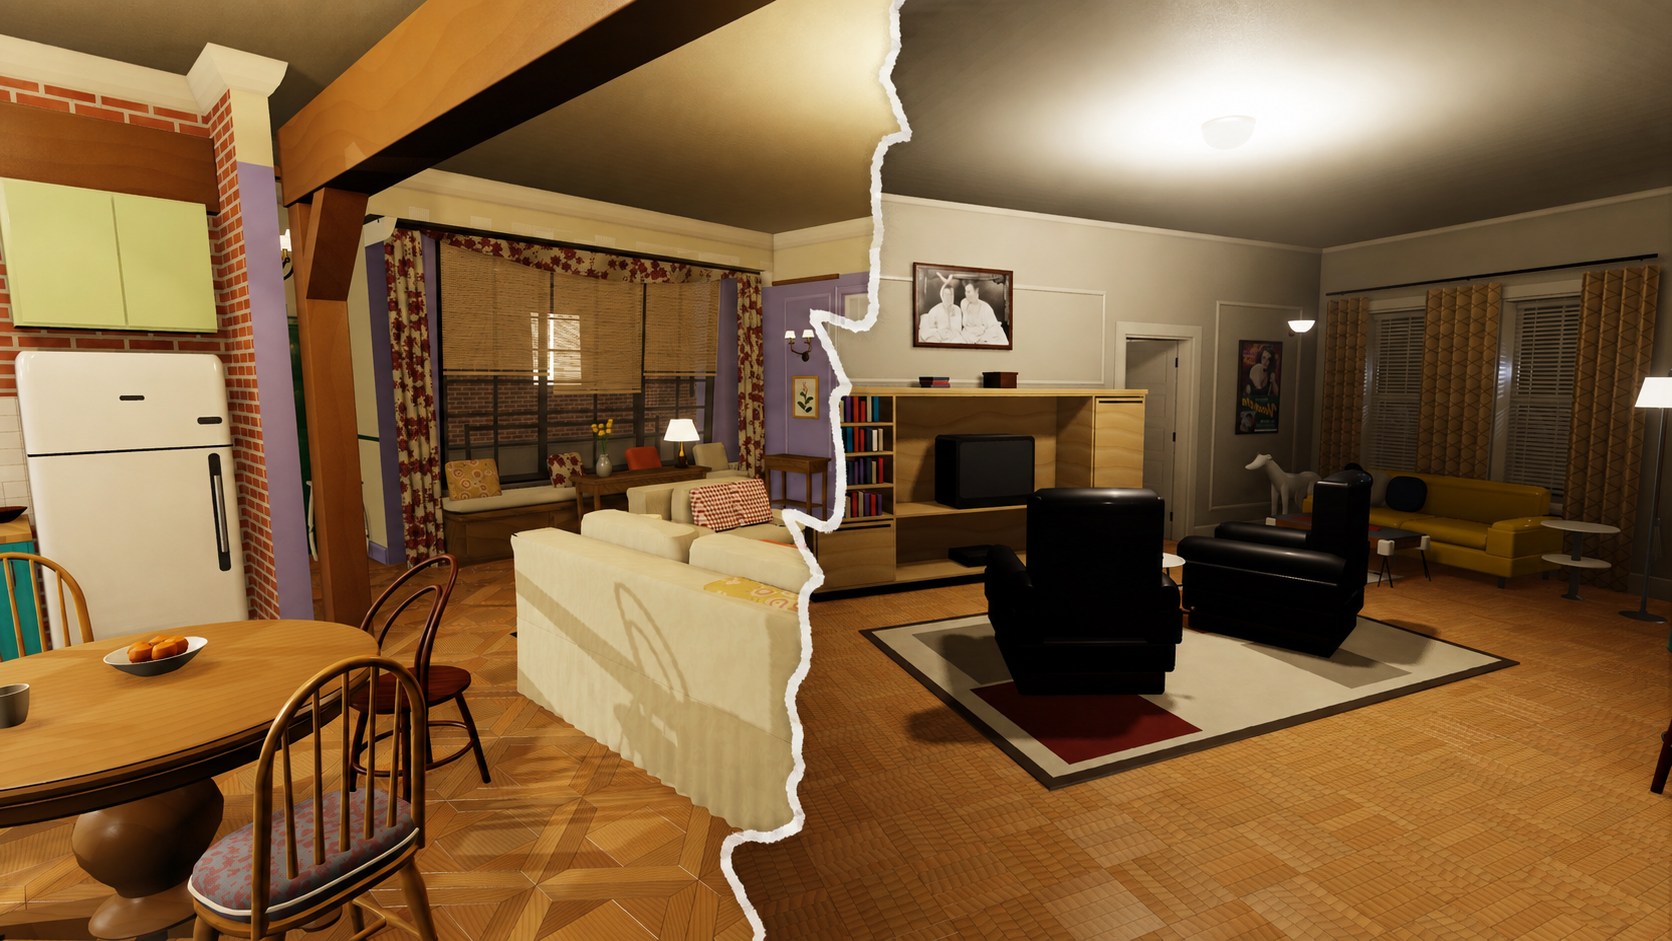
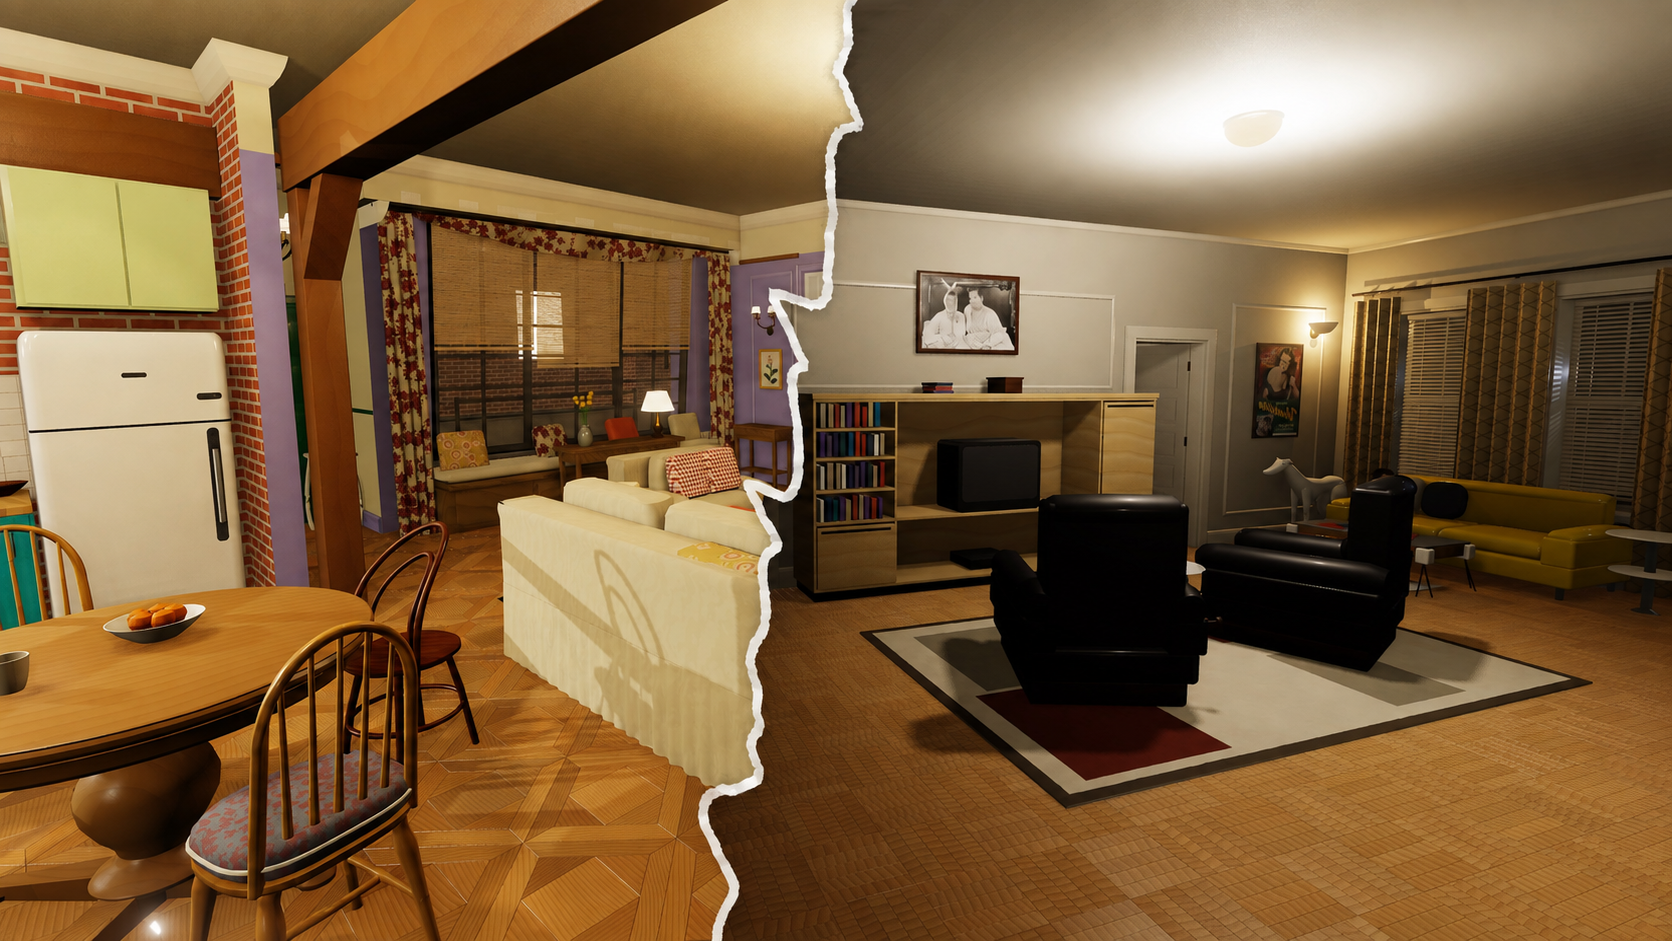
fix bugs in apt 19

diff --git a/src/apartments/joey/lighting.ts b/src/apartments/joey/lighting.ts
@@ -3,6 +3,7 @@ import type * as THREE from 'three/webgpu'
 import { MeshData } from '../../lib/mesh'
 import * as mlib from '../../lib/mlib'
 import { srgbTriple } from '../../mats/tsl'
+import { blackbody } from '../../scene/props'
 import type { World } from '../../scene/world'
 import * as L from './layout'
 import * as M from './materials'
@@ -10,15 +11,20 @@ import * as P from './props'
 
 const GAIN=0.185
 const WARM=srgbTriple('FFEBD2')
-const WARM_HOT=srgbTriple('FFE8CC')
+// User-tuned: every fixture emissive (and the sconce lamp) shares one warmth.
+export const GLOW_K=3000
+const invSrgb=(u:number):number=>u<=0.0031308?u*12.92:1.055*u**(1/2.4)-0.055
+export const bbHex=(kelvin:number):string=>blackbody(kelvin).map((c)=>Math.round(invSrgb(c)*255).toString(16).padStart(2,'0')).join('')
 const watts=(value:number):number=>value/GAIN
 const add=(world:World,md:MeshData,material:THREE.Material):MeshData=>world.add(md,material)
 
 function buildMaterials():void {
-  M.emissive('M_BulbGlow','FFE8CC',{strength:6})
-  M.emissive('M_DomeGlow','FFEBD2',{strength:2.4})
-  M.emissive('M_StripGlow','FFE8CC',{strength:3.4})
-  M.emissive('M_OpalGlow','FFE8CC',{strength:2.4,rough:0.42,base:'F0EADA'})
+  const glow=bbHex(GLOW_K)
+  M.emissive('M_BulbGlow',glow,{strength:6})
+  M.emissive('M_DomeGlow',glow,{strength:2.4})
+  M.emissive('M_StripGlow',glow,{strength:3.4})
+  M.emissive('M_OpalGlow',glow,{strength:2.4,rough:0.42,base:'F0EADA'})
+  M.plastic('M_Opal','F0EADA',{rough:0.42,coat:0.2})
   M.metal('M_FixBrass','A8842E',{rough:0.3,grime:0.35})
   M.metal('M_FixChrome','D6DADE',{rough:0.1,grime:0.3})
 }
@@ -39,21 +45,26 @@ function lampBulb(world:World,loc:[number,number,number]):void {
 }
 
 function sconce(world:World):void {
-  const parts:MeshData[]=[]
-  const plate=P.lathe([[0,0],[0.062,0],[0.06,0.012],[0.026,0.02],[0.024,0.07],[0,0.072]],20);P.faceY(plate,1);parts.push(plate)
-  const bowl=P.lathe([[0,0],[0.052,0.006],[0.098,0.042],[0.132,0.106],[0.134,0.112],[0.096,0.048],[0.05,0.014],[0,0.008]],28);mlib.translate(bowl,[0,0.104,-0.016]);parts.push(bowl)
-  const lamp=P.lathe([[0,0],[0.021,0.008],[0.024,0.03],[0.018,0.05],[0,0.056]],14);mlib.translate(lamp,[0,0.104,0.03]);parts.push(lamp)
-  P.wallPlace(parts,'W',6.86,2.24,L.WX)
-  add(world,plate,M.get('M_FixBrass'));add(world,bowl,M.get('M_OpalGlow'));add(world,lamp,M.get('M_BulbGlow'))
+  const plate=P.lathe([[0,0],[0.062,0],[0.06,0.012],[0.026,0.02],[0.024,0.07],[0,0.072]],20);P.faceY(plate,1)
+  const bowl=P.lathe([[0,0],[0.052,0.006],[0.098,0.042],[0.132,0.106],[0.134,0.112],[0.096,0.048],[0.05,0.014],[0,0.008]],28);mlib.translate(bowl,[0,0.104,-0.016])
+  const bulb=P.lathe([[0,0],[0.021,0.008],[0.024,0.03],[0.018,0.05],[0,0.056]],14);mlib.translate(bulb,[0,0.104,0.03])
+  P.wallPlace([plate,bowl,bulb],'W',6.86,2.24,L.WX)
+  // f_light.py diffuser(): the opal bowl must not screen its own lamp.
+  M.get('M_Opal').userData.noShadow=true;M.get('M_BulbGlow').userData.noShadow=true
+  add(world,plate,M.get('M_FixBrass'));add(world,bowl,M.get('M_Opal'));add(world,bulb,M.get('M_BulbGlow'))
+  // The POINT lamp sits at the placed bulb's vertex centroid, as in f_light.py.
+  let cx=0,cy=0,cz=0
+  for(const v of bulb.verts){cx+=v[0];cy+=v[1];cz+=v[2]}
+  const n=bulb.verts.length
+  // User-tuned from f_light.py's 210 W @ WARM (~2900 K): +30% power, GLOW_K warmth.
+  world.pointLight([cx/n,cy/n,cz/n],273*GAIN,blackbody(GLOW_K),0.05,{distance:5.4})
 }
 
 function kitchenStrips(world:World):void {
   const x0=L.K_UPPER[0]+0.03,x1=L.K_UPPER[1]-0.03,y=L.NY2-L.UPPER_D+0.1,z=L.UPPER_Z[0]-0.02
   const tube=P.rod([x0,y,z],[x1,y,z],0.013,10);M.get('M_StripGlow').userData.noShadow=true;add(world,tube,M.get('M_StripGlow'))
-  for(let i=0;i<4;i++)world.pointLight([x0+(x1-x0)*(i+0.5)/4,y,z-0.03],105*GAIN/4,WARM_HOT,0.04,{shadow:false,distance:2.2})
   const [mx0,mx1]=L.K_MW
   for(const t of [0.3,0.7])add(world,mlib.bevel(mlib.box(mx0+(mx1-mx0)*t-0.055,L.NY2-0.245,L.K_MW_Z[0]-0.006,mx0+(mx1-mx0)*t+0.055,L.NY2-0.135,L.K_MW_Z[0]),0.003,2),M.get('M_StripGlow'))
-  world.pointLight([(mx0+mx1)*0.5,L.NY2-0.19,L.K_MW_Z[0]-0.02],78*GAIN,WARM_HOT,0.06,{shadow:false,distance:2.2})
 }
 
 function vanity(world:World):void {

diff --git a/src/apartments/joey/living.ts b/src/apartments/joey/living.ts
@@ -5,6 +5,7 @@ import * as mlib from '../../lib/mlib'
 import { PyRandom } from '../../lib/rng'
 import type { World } from '../../scene/world'
 import * as L from './layout'
+import { bbHex, GLOW_K } from './lighting'
 import * as M from './materials'
 import * as P from './props'
 
@@ -40,7 +41,7 @@ function buildMaterials(): void {
   M.carpet('M_MatWhite', 'E4E0D6', { rough: 0.94 })
   M.carpet('M_MatRed', 'AE2B26', { rough: 0.94 })
   M.paint('M_LampShade', 'E6E2D6', { rough: 0.55 })
-  M.emissive('M_FloorShadeGlow', 'FFE8CC', { strength: 1.6, rough: 0.55, base: 'E6E2D6' })
+  M.emissive('M_FloorShadeGlow', bbHex(GLOW_K), { strength: 1.6, rough: 0.55, base: 'E6E2D6' })
   M.picture('M_ArtLaurel', '/Laurel_and_Hardy_poster.jpeg', { rough: 0.4, gloss: 0.28 })
   M.picture('M_ArtVendetta', '/Vendetta_poster.jpg', { rough: 0.36, gloss: 0.34 })
   M.picture('M_ArtDieHard', '/die_hard.jpeg', { rough: 0.38, gloss: 0.3 })
@@ -228,7 +229,9 @@ function addArt(world: World, width:number,height:number,wall:'W'|'E',u:number,z
 
 function buildArtAndDressing(world: World): void {
   addArt(world,0.92,0.604,'W',(L.ENT_Y[0]+L.ENT_Y[1])*0.5,2.285,L.WX,'M_ArtLaurel','M_DarkWood',0.044)
-  addArt(world,0.69,0.981,'E',1.05,1.615,L.EX,'M_ArtDieHard','M_DarkWood',0.03)
+  // User-moved off f_living.py's (1.05, 1.615): centred in the east wall's
+  // applied panel (shell.ts addPanels: centre u 1.55 from SY, z 1.415).
+  addArt(world,0.69,0.981,'E',L.SY+1.55,1.415,L.EX,'M_ArtDieHard','M_DarkWood',0.03)
   addArt(world,0.6,0.937,'W',6.34,1.62,L.WX,'M_ArtVendetta','M_TVCase',0.028)
   for (const [i,dx,dy,rz,mat] of [[0,-0.3,-0.06,0.18,'M_MagA'],[1,-0.16,0.05,-0.3,'M_MagB'],[2,0.24,-0.03,0.42,'M_MagA']] as const) {
     const magazine=mlib.box(-0.105,-0.14,i*0.007,0.105,0.14,i*0.007+0.006); mlib.rotateZ(magazine,rz); mlib.translate(magazine,[L.COFFEE_C[0]+dx,L.COFFEE_C[1]+dy,0.405]); add(world,magazine,M.get(mat))

diff --git a/src/apartments/joey/rooms.ts b/src/apartments/joey/rooms.ts
@@ -5,6 +5,7 @@ import * as mlib from '../../lib/mlib'
 import { PyRandom } from '../../lib/rng'
 import type { World } from '../../scene/world'
 import * as L from './layout'
+import { bbHex, GLOW_K } from './lighting'
 import * as M from './materials'
 import * as P from './props'
 
@@ -25,7 +26,7 @@ function buildMaterials():void {
   M.stone('M_VanityTop','EDEAE0',{vein:'C6BEB0',rough:0.14,scale:2})
   M.plastic('M_ShowerCurtain','DCE4E2',{rough:0.42,coat:0.1,bump:0.14})
   M.plastic('M_LampBase','2A2622',{rough:0.42})
-  M.emissive('M_ShadeCream','FFE8CC',{strength:1.6,rough:0.62,base:'E8E0CC'})
+  M.emissive('M_ShadeCream',bbHex(GLOW_K),{strength:1.6,rough:0.62,base:'E8E0CC'})
   M.carpet('M_BedRug','7A6A52',{rough:0.94})
   M.carpet('M_BedRug2','4E5A66',{rough:0.94})
   M.carpet('M_BathMat','C8D2CE',{rough:0.95,pile:1.3})

diff --git a/src/apartments/joey/props.ts b/src/apartments/joey/props.ts
@@ -375,7 +375,9 @@ function planarUvs(md: MeshData): void {
   const x1 = Math.max(...xs)
   const z0 = Math.min(...zs)
   const z1 = Math.max(...zs)
-  md.uvs = md.faces.map((face) => face.map((vi) => [(md.verts[vi][0] - x0) / Math.max(1e-6, x1 - x0), (md.verts[vi][2] - z0) / Math.max(1e-6, z1 - z0)] as Vec2))
+  // The art face displays along local +y, so screen-right is local -x: u must
+  // run against +x or every wall picture renders mirror-reversed.
+  md.uvs = md.faces.map((face) => face.map((vi) => [(x1 - md.verts[vi][0]) / Math.max(1e-6, x1 - x0), (md.verts[vi][2] - z0) / Math.max(1e-6, z1 - z0)] as Vec2))
 }
 
 export function frameArt(width: number, height: number, depth = 0.03, moulding = 0.042, rebate = 0.008, standoff = 0): [MeshData, MeshData] {

diff --git a/src/main.ts b/src/main.ts
@@ -153,9 +153,11 @@ async function boot():Promise<void> {
     const previousScene=scenePass.scene
     scenePass.scene=apartment.world.scene
     try{
+      // Freeze every map before the first warm-up pass: a light still on
+      // autoUpdate re-renders its map during every earlier light's pass.
+      for(const light of apartment.world.lights)if(light.castShadow&&light.shadow)light.shadow.autoUpdate=false
       for(const light of apartment.world.lights){
         if(!light.castShadow||!light.shadow)continue
-        light.shadow.autoUpdate=false
         light.shadow.needsUpdate=true
         postProcessing.render()
         await nextFrame()

diff --git a/src/ui/ui.ts b/src/ui/ui.ts
@@ -365,7 +365,7 @@ export class Ui {
         <div class="hall">
           <div class="grain"></div>
           <header class="titles">
-            <h1 aria-label="The One with the Apartment"><span class="eyebrow" aria-hidden="true">The One With</span><span class="title-main" aria-hidden="true">The Apartment</span></h1>
+            <h1 aria-label="The One with the Apartments"><span class="eyebrow" aria-hidden="true">The One With</span><span class="title-main" aria-hidden="true">The Apartments</span></h1>
             <div class="dots"><i></i><i></i><i></i><i></i><i></i><i></i></div>
           </header>
           <div class="doors">
